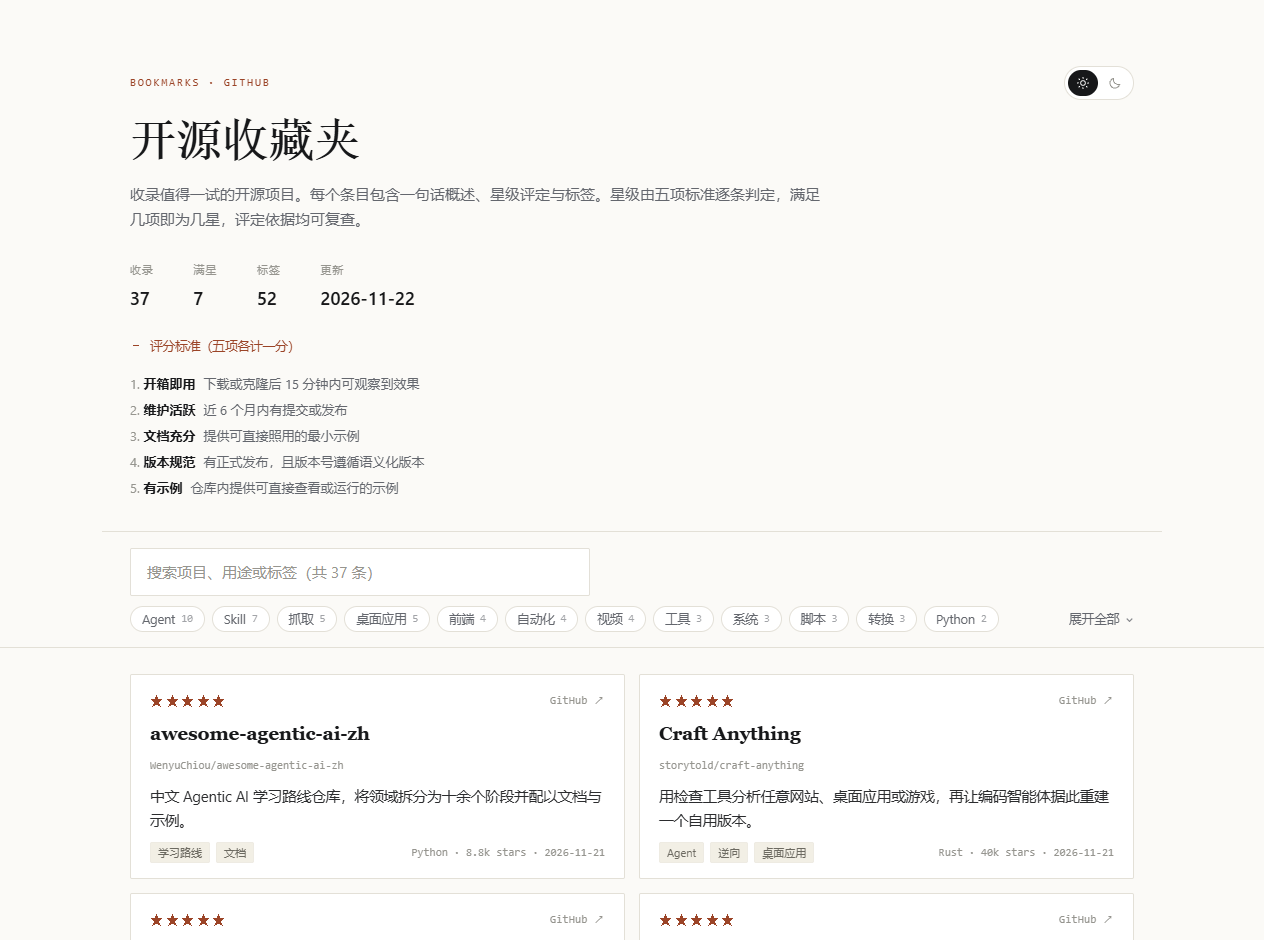
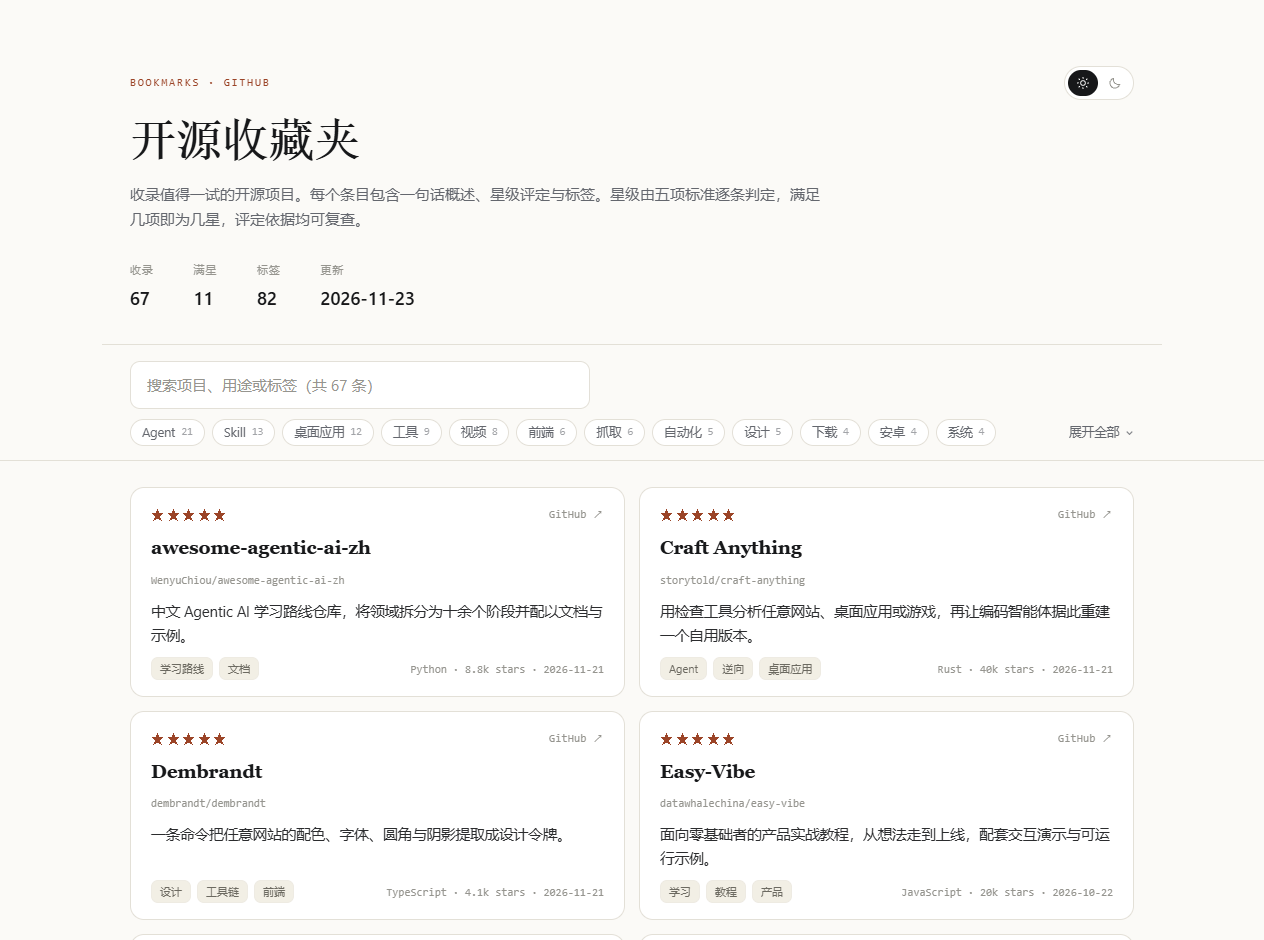
卡片改为圆角；去掉首页评分标准块与详情页评分依据小节；新增 SuperHive 与拾景 Zine

diff --git a/web/style.css b/web/style.css
@@ -117,7 +117,7 @@ h1{font-family:var(--serif);font-size:clamp(34px,4.6vw,46px);line-height:1.08;
          backdrop-filter:saturate(1.4) blur(8px);border-bottom:1px solid var(--line);
          padding:16px 0 14px}
 #q{width:100%;max-width:460px;border:1px solid var(--line);background:var(--card);
-   color:var(--ink);padding:13px 16px;border-radius:2px;font-size:15px;font-family:var(--sans)}
+   color:var(--ink);padding:13px 16px;border-radius:10px;font-size:15px;font-family:var(--sans)}
 #q::placeholder{color:var(--faint)}
 #q:focus{outline:none;border-color:var(--field-focus)}
 .tagbar{display:flex;align-items:flex-start;gap:14px;margin-top:10px}
@@ -144,8 +144,8 @@ h1{font-family:var(--serif);font-size:clamp(34px,4.6vw,46px);line-height:1.08;
 .grid{display:grid;grid-template-columns:1fr;gap:14px;padding:26px 0 8px}
 @media (min-width:840px){.grid{grid-template-columns:1fr 1fr}}
 .card{display:flex;flex-direction:column;text-decoration:none;color:inherit;
-      background:var(--card);border:1px solid var(--line);border-radius:2px;
-      padding:17px 19px 15px;transition:border-color .15s ease}
+      background:var(--card);border:1px solid var(--line);border-radius:14px;
+      padding:18px 20px 16px;transition:border-color .15s ease,transform .18s ease,box-shadow .18s ease}
 .card:hover{border-color:var(--line-hover);text-decoration:none}
 .card[hidden]{display:none}
 .card .top{display:flex;justify-content:space-between;gap:10px;
@@ -158,7 +158,7 @@ h1{font-family:var(--serif);font-size:clamp(34px,4.6vw,46px);line-height:1.08;
             display:-webkit-box;-webkit-line-clamp:2;-webkit-box-orient:vertical;overflow:hidden}
 .card .bottom{margin-top:auto;display:flex;align-items:center;justify-content:space-between;gap:12px;flex-wrap:wrap}
 .tags{display:flex;gap:6px;flex-wrap:wrap}
-.tag{font-size:11px;padding:2px 7px;border-radius:2px;background:var(--mark);
+.tag{font-size:11px;padding:3px 8px;border-radius:7px;background:var(--mark);
      color:var(--tag-fg);border:1px solid var(--line-soft)}
 .cta{font-size:12px;color:var(--accent);white-space:nowrap}
 .empty{padding:56px 0;color:var(--faint);font-size:14px}

diff --git a/src/build.py b/src/build.py
@@ -355,10 +355,6 @@ def build_index(entries: list[dict], now: str, css_ver: str) -> str:
     <div><span class="k">标签</span><span class="v">{len(tags)}</span></div>
     <div><span class="k">更新</span><span class="v">{esc(now)}</span></div>
   </div>
-  <details class="rubric" open>
-    <summary>评分标准（五项各计一分）</summary>
-    <ol>{"".join(f"<li><b>{esc(label)}</b>{esc(desc)}</li>" for _k, label, desc in CRITERIA)}</ol>
-  </details>
 </header>
 
 <div class="toolbar">
@@ -393,6 +389,13 @@ def build_index(entries: list[dict], now: str, css_ver: str) -> str:
 </body>
 </html>
 """
+
+
+def strip_section(body: str, title: str) -> str:
+    """删掉正文里的某一节（从二级标题到下一个二级标题之前）。"""
+    pattern = re.compile(rf"^##[ \t]*{re.escape(title)}[ \t]*$.*?(?=^##[ \t]|\Z)",
+                         re.S | re.M)
+    return pattern.sub("", body).strip() + "\n"
 
 
 def build_detail(entry: dict, now: str, css_ver: str) -> str:
@@ -447,8 +450,8 @@ def build_detail(entry: dict, now: str, css_ver: str) -> str:
     <thead><tr><th>判定</th><th>标准</th><th>这个项目的情况</th></tr></thead>
     <tbody>{rows}</tbody>
   </table>
-  <p class="rubric-hint">表中各项均为该项目自身的判定说明；五项标准的通用定义见首页。</p>
-  <article class="md">{md.render(entry['body'])}</article>
+  <p class="rubric-hint">表中各项均为该项目自身的判定说明。</p>
+  <article class="md">{md.render(strip_section(entry['body'], '评分依据'))}</article>
 </main>
 <footer class="wrap">
   <p class="mono">收录于 {esc(entry['added'])} · 生成于 {esc(now)}</p>

diff --git a/entries/gathered-scenes-zine.md b/entries/gathered-scenes-zine.md
@@ -1,0 +1,45 @@
+---
+title: 拾景 Zine
+repo: Zeejay0/gathered-scenes-zine-skill
+license: 未标注（仓库许可状态为 NOASSERTION）
+language: Python
+gh_stars: 5692
+pushed: 2026-09-03
+added: 2026-11-23
+met: 维护活跃, 文档充分, 有示例
+why_runs: 未通过：为 Codex 编写的生图技能，需装入对应智能体后使用
+why_alive: 最近一次提交于 2026-09-03
+why_docs: README 讲清视觉原则、两条创作路径与作品档案，另附英文版
+why_release: 未通过：仓库未发布版本标签
+why_demo: examples/ 下按创作路径分类，配有可对照的成品示例
+one_liner: 把普通照片重新装订成一页纸上作品的两条生图路径：实景拼贴与影像蒸馏。
+tags: Skill, 设计, 生图
+---
+## 解决的问题
+
+拿照片做图，常见的做法是套模板：换背景、加滤镜、贴文字，做出来的东西彼此相似，也看不出原场景为什么值得留。
+
+拾景把顺序倒过来：先读场景，辨认主体、空间、色彩、动作与没说出口的情绪，再决定是保留现场，还是把现场蒸馏成一件新的纸上作品。前者叫实景拼贴，后者叫影像蒸馏，两条路径对应两种不同的取舍。
+
+视觉语言写成五条原则——真景为锚、插画成场、色彩成结构、纸面会呼吸、边界有触感，因此产出稳定在同一套调性里，而不是随机发挥。
+
+## 评分依据
+
+- **开箱即用**：未通过。为 Codex 编写的生图技能，需装入对应智能体后使用。
+- **维护活跃**：最近一次提交于 2026-09-03。
+- **文档充分**：README 讲清视觉原则、两条创作路径与作品档案，另附英文版。
+- **版本规范**：未通过。仓库未发布版本标签。
+- **有示例**：通过。`examples/` 下按创作路径分类，配有可对照的成品示例。
+
+## 注意事项
+
+仓库未标注标准许可证（GitHub 识别为 NOASSERTION），商用在先问作者。
+
+README 顶部含作者自有服务的推广信息（站点与充值业务），与本项目的功能无关，阅读时跳过即可。
+
+出图依赖文生图模型与提示词，效果随模型版本波动；涉及他人肖像与现场照片时，仍需取得授权。
+
+## 不适用场景
+
+- 需要严格还原原图细节的商业摄影后期，这套方法主动放弃细节。
+- 批量生成统一模板的场景，它的重点恰恰是逐张阅读。

diff --git a/entries/superhive.md b/entries/superhive.md
@@ -1,0 +1,43 @@
+---
+title: SuperHive
+repo: wangrongding/SuperHive
+license: AGPL-3.0
+language: TypeScript
+gh_stars: 712
+pushed: 2026-11-23
+added: 2026-11-23
+met: 开箱即用, 维护活跃, 文档充分, 版本规范
+why_runs: 全局安装一个 npm 包即可启动服务并打开网页界面，也可用 npx 直接试
+why_alive: 最近一次提交于 2026-11-23
+why_docs: 官方文档站覆盖安装、快速开始、日常功能、协作、部署与排错，配真实截图
+why_release: 当前版本 v0.4.4，遵循语义化版本并附发布说明
+why_demo: 未通过：scripts/fixtures 为测试夹具，不计为示例
+one_liner: 让多人多个编码智能体待在同一间屋子里的共享工作区，浏览器打开即用。
+tags: Agent, 协作, 自托管
+---
+## 解决的问题
+
+多人共用几个编码智能体时，信息散在各自的终端里：谁让智能体做了什么、结论是什么，别人看不到，也无法接着做。
+
+SuperHive 起一个本地或服务器端的服务，人和智能体进同一个房间。公共消息是共享上下文，飞书、微信里也能接着聊；而每个智能体的会话、文件与命令权限仍留在各自那台机器上，不因为进群而上交。
+
+它可以在本机、局域网、VPN 或云服务器上跑，部署到云端配上 HTTPS 之后，手机也能按网址进入。
+
+## 评分依据
+
+- **开箱即用**：通过。全局安装一个 npm 包即可启动服务并打开网页界面，也可用 npx 直接试。
+- **维护活跃**：最近一次提交于 2026-11-23。
+- **文档充分**：官方文档站覆盖安装、快速开始、日常功能、协作、部署与排错，配真实截图。
+- **版本规范**：当前版本 v0.4.4，遵循语义化版本并附发布说明。
+- **有示例**：未通过。`scripts/fixtures` 为测试夹具，不计为示例。
+
+## 注意事项
+
+许可证为 AGPL-3.0，对外提供服务时须开放修改后的源码。
+
+智能体侧的权限模型由各客户端自行控制：进了同一个房间不等于共享了执行权限，敏感操作仍需在各自机器上确认。
+
+## 不适用场景
+
+- 单人使用，本地终端已经足够。
+- 对外公开的房间，公共消息即共享上下文，不适合承载未脱敏的内部信息。
